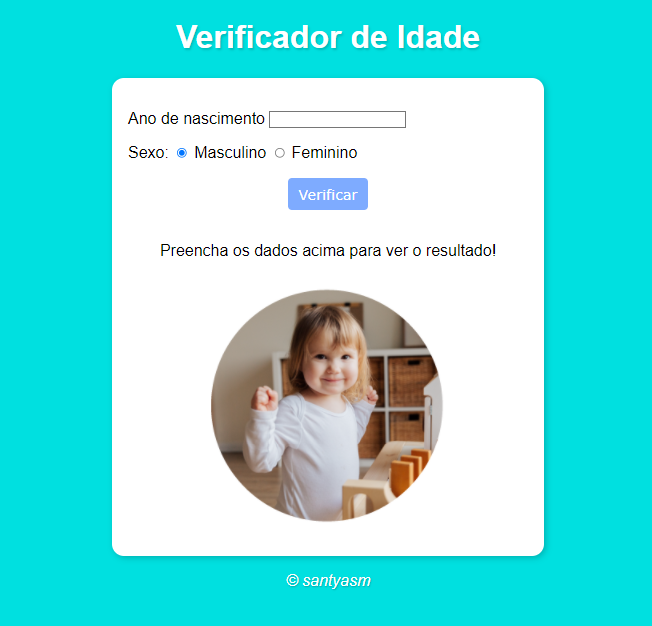
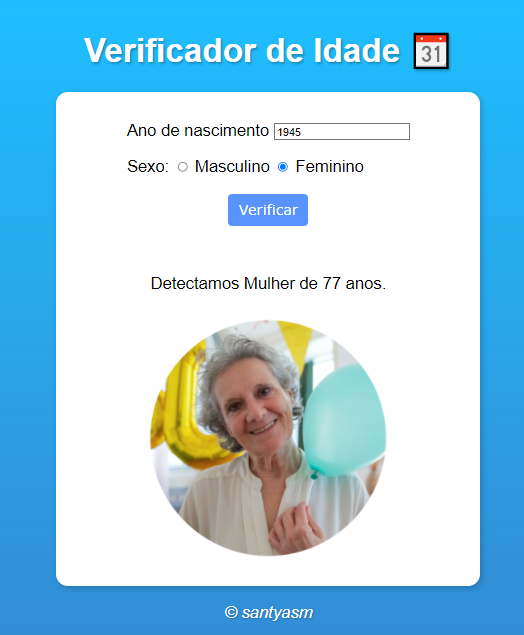
atualização de variáveis e background

diff --git a/script.js b/script.js
@@ -1,17 +1,18 @@
 function verificar(){
-    var data = new Date()
-    var ano = data.getFullYear()
-    var fano = document.getElementById("txtano")
-    var res = document.getElementById("res")
+    const data = new Date()
+    const anoAtual = data.getFullYear()
+    const anoDeNascimento = document.getElementById("TextoAno")
+    let Resultado = document.getElementById("Resultado")
 
-    if (fano.value.length == 0 || fano.value > ano) {
-        alert("[ERRO] Verifique os dados e tente novamente!")
+    if (anoDeNascimento.value.length == 0 || anoDeNascimento.value > anoAtual) {
+        alert(`[ERRO] Verifique os dados e tente novamente! Lembre-se de que estamos em ${anoAtual} 😉`)
     } else {
-        var fsex = document.getElementsByName("radsex")
-        var idade = ano - Number(fano.value)
-        var genero = ""
-        var img = document.getElementById("foto")
-        if (fsex[0].checked) {
+        const opcaoDoSexo = document.getElementsByName("RadioSexo")
+        const idade = anoAtual - Number(anoDeNascimento.value)
+        let genero = ""
+        let img = document.getElementById("Foto")
+        
+        if (opcaoDoSexo[0].checked) {
             genero = "Homem"
             if (idade >= 0 && idade <= 12) {
                 img.src = "./imagens/bebe-boy.png"
@@ -20,21 +21,22 @@ function verificar(){
             } else if (idade < 55) {
                 img.src ="./imagens/man.png"
             } else {
-                img.src ="../imagens/idoso.png"
+                img.src ="./imagens/idoso.png"
             }
-            }else {
+
+        } else {
             genero = "Mulher"
             if (idade >= 0 && idade <= 12) {
                 img.src = "./imagens/bebe-girl.png"
-            } else if (idade < 23){
-                img.src ="../imagens/teen-girl.png"             
+            } else if (idade < 30){
+                img.src ="./imagens/teen-girl.png"             
             } else if (idade < 55) {
                 img.src ="./imagens/woman.png"
             } else {
                 img.src = "./imagens/idosa.png"
             }
         }
-        res.style.textAlign = "center"
-        res.innerHTML = `Detectamos ${genero} de ${idade} anos.`
+        Resultado.style.textAlign = "center"
+        Resultado.innerHTML = `Detectamos ${genero} de ${idade} anos.`
     }
 }

diff --git a/index.html b/index.html
@@ -5,35 +5,35 @@
     <meta http-equiv="X-UA-Compatible" content="IE=edge">
     <meta name="viewport" content="width=device-width, initial-scale=1.0">
     <link rel="stylesheet" href="estilo.css">
-    <link rel="shortcut icon" href="../modelo/grupo-de-idade.png" type="image/x-icon">
+    <link rel="shortcut icon" href="imagens/grupo-de-idade.png" type="image/x-icon">
     <title>Verificador de Idade</title>
 </head>
 <body>
     <header>
-        <h1>Verificador de Idade</h1>
+        <h1>Verificador de Idade &#128198</h1>
     </header>
 
     <section>
         <div>
             <p>Ano de nascimento
-                <input type="number" name="txtano" id="txtano" min="0">
+                <input type="number" name="txtano" id="TextoAno" min="0">
             </p>
             <p>Sexo:
-                <input type="radio" name="radsex" id="masc" checked>
-                <label for="masc">Masculino</label>
-                <input type="radio" name="radsex" id="fem">
-                <label for="fem">Feminino</label>
+                <input type="radio" name="RadioSexo" id="Masculino" checked>
+                <label for="Masculino">Masculino</label>
+                <input type="radio" name="RadioSexo" id="Feminino">
+                <label for="Feminino">Feminino</label>
             </p>
             <p>
-                <input id="botao" type="button" value="Verificar" onclick="verificar()">
+                <input id="Botao" type="button" value="Verificar" onclick="verificar()">
             </p>
         </div>
-        <div id="res">
+        <div id="Resultado">
             Preencha os dados acima para ver o resultado!
         </div>
         <picture>
             <div>
-                <img id="foto" src="./imagens/bebe-girl.png" alt="Foto de bebê">
+                <img id="Foto" src="./imagens/bebe-girl.png" alt="Foto de bebê">
             </div>
         </picture>
     </section>

diff --git a/estilo.css b/estilo.css
@@ -1,6 +1,14 @@
 body{
-    background-color: rgb(0, 224, 224);
+    background: linear-gradient(to bottom, rgb(30, 191, 255), rgba(24, 125, 207, 0.884));
     font: normal 15pt Arial;
+    width: 100vw;
+    height: 100%;
+
+    display: flex;
+    align-items: center;
+    justify-content: center;
+    flex-direction: column;
+    font-size: 1.3em;
 }
 
 header{
@@ -8,14 +16,20 @@ header{
     text-align: center;
     text-shadow: 2px 2px 3px rgba(0, 0, 0, 0.171);
 }
+h1{
+    text-shadow: 2px 2px 3px rgba(0, 0, 0, 0.247);
+}
 
 section{
     background-color: white;
-    border-radius: 15px;
-    padding: 20px;
-    width: 500px;
-    margin: auto;
     box-shadow: 3px 3px 8px rgba(0, 0, 0, 0.199);
+    border-radius: 15px;
+    padding: 15px;
+    display: flex;
+    align-items: center;
+    justify-content: center;
+    flex-direction: column;
+    width: 500px;    
 }
 
 footer{
@@ -25,28 +39,28 @@ footer{
     text-shadow: 1px 1px 2px rgba(0, 0, 0, 0.26);
 }
 
-#foto{
+#Foto{
     display: block;
     width: 300px;
     margin: auto;
     padding: 30px 20px 20px 20px;   
 }
-#botao{
+#Botao{
     display: block;
     width: 100px;
     height: 40px;
     margin: auto;
-    background-color: rgba(0, 89, 255, 0.507);
+    background-color: rgba(0, 89, 255, 0.651);
     color: white;
     border: none;
     font: 18px  verdana ;
     border-radius: 5px;
 }
-#botao:hover{
+#Botao:hover{
     cursor: pointer;
     background-color: rgba(1, 65, 138, 0.479);
 }
-#res{
+#Resultado{
     text-align: center;
     margin-top: 40px;
 }
